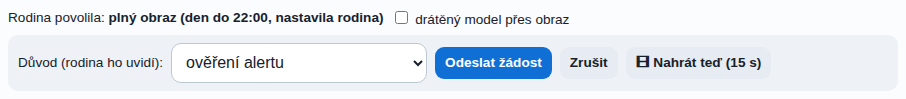
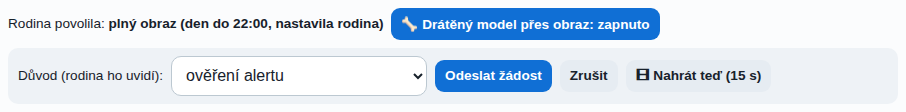
Verze 2.9: drátěný model v dispečinku výrazně a výchozí, jen skutečná postava přes živý obraz, jednotná terminologie
- dispečink: tlačítko „🦴 Drátěný model přes obraz: zapnuto/vypnuto“ místo zatržítka,
  po spuštění zapnuto, volba v localStorage; mimo plný a rozostřený obraz nejde použít
- zdroj.js: ukázková postava náhradní scény se už nepřenese na živý obraz z kamery;
  při načítání nebo nedostupnosti modelu se kostra nekreslí a plátno to napíše;
  náhradní scéna má popisek „postava je jen ukázková“
- jedna terminologie: plný obraz, rozostřený obraz, drátěný model, bez obrazu
  (rodina, hlavní aplikace, rozcestník, README); „Ostrý/Normální/Rozmazaný“ pryč
- CHANGELOG 2.9, verze.js, nápověda

Claude-Session: https://claude.ai/code/session_013Q43w1EYgsA74FWdGJXT9h

diff --git a/public/proto/napoveda.js b/public/proto/napoveda.js
@@ -28,7 +28,7 @@ export const TEMATA = [
   { id: 'otaceni', nazev: 'Otáčení kamery', klicova: ['otoc', 'otac', 'natoc', 'sipk', 'ptz', 'pan', 'tilt', 'vychozi poloha', 'pohnout kamerou'],
     text: 'Kamery Tapo s otočnou hlavou (C200, C210, C220) jdou otáčet přímo z aplikace: na obraze v detailu kamery (dispečink) i na obraze v aplikaci rodiny je vpravo dole kříž šipek. Každé stisknutí kameru krátce pootočí daným směrem, ⌂ ji vrátí do výchozí polohy. Otáčí se přes ONVIF stejným účtem kamery jako události, takže nic dalšího se nenastavuje. Když kamera otáčení neumí nebo neodpoví, aplikace to řekne. Rodina otáčí jen svou kameru.' },
   { id: 'novinky', nazev: 'Co je nové', klicova: ['novink', 'co je nove', 'zmeny', 'verze', 'aktualizace'],
-    text: 'Verze 2.8 (5. 10. 2026): když rodina povolila jen rozostření nebo drátěný model, nahrávka po události vznikne jako drátěný model (jen kostra postavy, bez obrazu) a přehraje se jako animace tlačítkem 🦴 v Nahrávkách; plný obraz se ukládá dál jen při plném obrazu nebo nouzovém přístupu. Verze 2.7 (5. 10. 2026): nahrávka po události obsahuje i obraz před ní (⚙ Nastavení → Obraz před událostí, výchozí 5 s; server drží posledních pár sekund obrazu každé kamery) a události kamer zpracovává server sám každé 2 sekundy, takže nahrávka, SMS a e-mail odcházejí hned i bez otevřeného dispečinku. Verze 2.6 (4. 10. 2026): hlídání místa na serveru – pojistka proti plnému disku (pod nastavené volné místo se mažou nejstarší nahrávky), limit místa na poskytovatele v Nastavení (výchozí 2 GB) a oranžové varování nahoře v dispečinku, když je místa málo nebo je poskytovatel u limitu. Verze 2.5 (4. 10. 2026): v detailu kamery (Monitoring → Historie) jde zvolit období od–do, zobrazit události z databáze (jedné kamery nebo všech) a stáhnout je do Excelu; detail kamery je rozdělený do ohraničených bloků s tlačítky v jedné liště; nahrávka po události, která se nepořídila, má vždy vidět důvod (🎞 nenahráno: …) v historii i v Nahrávkách. Verze 2.4 (4. 10. 2026): v Nastavení kamery jsou všechny události, které kamera Tapo hlásí: k překročení čáry, zakrytí, osobě a pohybu přibyly vstup do hlídané oblasti, pláč, hlasitý nebo neobvyklý zvuk, rozbití skla, vozidlo a zvíře (vozidlo a zvíře jsou výchozí vypnuté). Verze 2.3 (4. 10. 2026): Google Disk jde v Nastavení zapnout a vypnout (zapnuto = kopie každé nahrávky vedle serveru); v Nastavení je vidět, kolik nahrávky zabírají na serveru a kolik je volného místa; kameru Tapo jde otáčet šipkami na obraze v detailu kamery i v aplikaci rodiny (⌂ = výchozí poloha). Verze 2.2 (4. 10. 2026): druhá volba úložiště nahrávek – na serveru (doporučeno): šifrované soubory na našem serveru, přehrávání jen v aplikaci (dispečink i rodina u své kamery, tlačítko ▶ přehrát), každé přehrání v auditu, automatické mazání po nastavené době (výchozí 30 dnů), ruční smazání; nahrávka z hlavní aplikace zůstává v režimu, ve kterém byla pořízena; evidence každé nahrávky v CLB1. Volba Server / Google Disk a doba uchování jsou v Nastavení. Verze 2.1 (4. 10. 2026): nahrávky z kamer na Google Disk poskytovatele – stejný Google účet jako v Péče doma plus (Export dat), adresář se zakládá v Nastavení dispečinku; server po události se zatrženým Nahrávat uloží nastavený počet sekund obrazu (jen při plném obrazu, nebo kritická událost s nouzovým přístupem), v detailu kamery je tlačítko Nahrát teď a seznam Nahrávky, odkaz 🎞 je u události v historii; nahrávky z hlavní aplikace jdou na Disk také. Tunel pro více míst: kamera u jiného poskytovatele má vlastní bránu (Mango) a vlastní místo v tunelu (wireguard-vps.sh --misto 2). Verze 2.0 (3. 10. 2026): konec prototypu – každý poskytovatel (tenant Péče doma plus) má svá data v databázi PeceDomaPlus (tabulky A_KAM_*), nic společného a nic v Softru. Dispečink se otevírá odkazem s ID tenanta (?tenant=…), které si prohlížeč pamatuje; dispečer se přihlašuje účtem Péče doma plus, správce serveru heslem správce; v záhlaví je poskytovatel a kdo je přihlášen. Kamery patří tenantovi (vps-kamera.sh tenant …), dlaždice ukazují jen jeho kamery, demo a Vynulovat v ostrém provozu nejsou. Údaje poskytovatele začínají názvem z Péče doma plus. Verze 1.1 (3. 10. 2026): v aplikaci rodiny je vlastní obraz vždy ostrý a volba zobrazení (rozostření, černé pozadí, drátěný model) je schovaná za tlačítkem Test obrazu; zavřením testu se vrátí ostrý obraz. Tři tlačítka Ostrý / Rozmazaný / Drátěný model pro poskytovatele zůstávají v kartě Přístup poskytovatele. Dál: detail kamery v dispečinku je rozdělený do sekcí Monitoring, Komunikace a Nastavení. Ke každé kameře jdou zadat až tři čísla na SMS a tři e-maily (Komunikace → Kontakty pro upozornění) a u každé události zatrhnout Nahrávat, SMS a E-mail (Nastavení); server při události upozorní, historie ukazuje, kolik zpráv odešlo. E-mail jde stejným webhookem Make jako SMS, v Nastavení (ozubené kolečko) je zkušební SMS i zkušební e-mail a varování, když je na serveru zaměněná adresa webhooku. Oprava 3. 10. 2026 odpoledne: SMS rodině (pozvánky, žádosti o plný obraz) jdou přes Twilio stejným spojením jako SMS Jarvise; dřívější cesta hlásila odesláno, ale SMS nedocházely. V Nastavení (ozubené kolečko) je sekce SMS rodině s tlačítkem Poslat zkušební SMS na vlastní číslo. Verze 1.0 (3. 10. 2026), číslo verze je v hlavičce každé aplikace. Aplikace rodiny už nemá panel Simulace; zapne se odkazem /proto/rodina.html?simulace=1 (ukázka ?ukazka=1 ho má vždy). Při žádosti o plný obraz odchází rodině SMS. Dál: trvalá poznámka ke klientovi pod obrazem jde upravit; odkaz z pozvánky má přednost před přihlášením v prohlížeči; dispečink a provoz jen po přihlášení poskytovatele; nastavení pod ozubeným kolečkem vpravo nahoře (poskytovatel, dispečink, eskalace, zobrazení); poznámky dispečinku ke kameře s časem a jménem; nápověda s obrázky obrazovek a asistent v grafice Case manageru; údaje poskytovatele na jednom místě pro dispečink i rodinu; karta Směna počítá z dnešních alertů. 2. 10. 2026: stav sdílený přes server (rodina na telefonu, dispečink na počítači); přepínač Jen skutečné kamery / Demo; přihlášení přímo v dispečinku; v aplikaci rodiny karta Přístup poskytovatele s rychlým přepnutím Ostrý / Rozmazaný / Drátěný model, časy dne a noci, Klid na 2 hodiny / do rána / do večera / do vypnutí, žádost o plný obraz přes celou obrazovku se zvukem.' },
+    text: 'Verze 2.9 (5. 10. 2026): drátěný model přes obraz v dispečinku je výrazné tlačítko a je po spuštění zapnutý; přes skutečný obraz se kreslí jen skutečná postava z modelu v prohlížeči (ukázková postava patří jen k náhradní scéně); jednotné názvy režimů ve všech aplikacích (plný obraz, rozostřený obraz, drátěný model, bez obrazu). Verze 2.8 (5. 10. 2026): když rodina povolila jen rozostření nebo drátěný model, nahrávka po události vznikne jako drátěný model (jen kostra postavy, bez obrazu) a přehraje se jako animace tlačítkem 🦴 v Nahrávkách; plný obraz se ukládá dál jen při plném obrazu nebo nouzovém přístupu. Verze 2.7 (5. 10. 2026): nahrávka po události obsahuje i obraz před ní (⚙ Nastavení → Obraz před událostí, výchozí 5 s; server drží posledních pár sekund obrazu každé kamery) a události kamer zpracovává server sám každé 2 sekundy, takže nahrávka, SMS a e-mail odcházejí hned i bez otevřeného dispečinku. Verze 2.6 (4. 10. 2026): hlídání místa na serveru – pojistka proti plnému disku (pod nastavené volné místo se mažou nejstarší nahrávky), limit místa na poskytovatele v Nastavení (výchozí 2 GB) a oranžové varování nahoře v dispečinku, když je místa málo nebo je poskytovatel u limitu. Verze 2.5 (4. 10. 2026): v detailu kamery (Monitoring → Historie) jde zvolit období od–do, zobrazit události z databáze (jedné kamery nebo všech) a stáhnout je do Excelu; detail kamery je rozdělený do ohraničených bloků s tlačítky v jedné liště; nahrávka po události, která se nepořídila, má vždy vidět důvod (🎞 nenahráno: …) v historii i v Nahrávkách. Verze 2.4 (4. 10. 2026): v Nastavení kamery jsou všechny události, které kamera Tapo hlásí: k překročení čáry, zakrytí, osobě a pohybu přibyly vstup do hlídané oblasti, pláč, hlasitý nebo neobvyklý zvuk, rozbití skla, vozidlo a zvíře (vozidlo a zvíře jsou výchozí vypnuté). Verze 2.3 (4. 10. 2026): Google Disk jde v Nastavení zapnout a vypnout (zapnuto = kopie každé nahrávky vedle serveru); v Nastavení je vidět, kolik nahrávky zabírají na serveru a kolik je volného místa; kameru Tapo jde otáčet šipkami na obraze v detailu kamery i v aplikaci rodiny (⌂ = výchozí poloha). Verze 2.2 (4. 10. 2026): druhá volba úložiště nahrávek – na serveru (doporučeno): šifrované soubory na našem serveru, přehrávání jen v aplikaci (dispečink i rodina u své kamery, tlačítko ▶ přehrát), každé přehrání v auditu, automatické mazání po nastavené době (výchozí 30 dnů), ruční smazání; nahrávka z hlavní aplikace zůstává v režimu, ve kterém byla pořízena; evidence každé nahrávky v CLB1. Volba Server / Google Disk a doba uchování jsou v Nastavení. Verze 2.1 (4. 10. 2026): nahrávky z kamer na Google Disk poskytovatele – stejný Google účet jako v Péče doma plus (Export dat), adresář se zakládá v Nastavení dispečinku; server po události se zatrženým Nahrávat uloží nastavený počet sekund obrazu (jen při plném obrazu, nebo kritická událost s nouzovým přístupem), v detailu kamery je tlačítko Nahrát teď a seznam Nahrávky, odkaz 🎞 je u události v historii; nahrávky z hlavní aplikace jdou na Disk také. Tunel pro více míst: kamera u jiného poskytovatele má vlastní bránu (Mango) a vlastní místo v tunelu (wireguard-vps.sh --misto 2). Verze 2.0 (3. 10. 2026): konec prototypu – každý poskytovatel (tenant Péče doma plus) má svá data v databázi PeceDomaPlus (tabulky A_KAM_*), nic společného a nic v Softru. Dispečink se otevírá odkazem s ID tenanta (?tenant=…), které si prohlížeč pamatuje; dispečer se přihlašuje účtem Péče doma plus, správce serveru heslem správce; v záhlaví je poskytovatel a kdo je přihlášen. Kamery patří tenantovi (vps-kamera.sh tenant …), dlaždice ukazují jen jeho kamery, demo a Vynulovat v ostrém provozu nejsou. Údaje poskytovatele začínají názvem z Péče doma plus. Verze 1.1 (3. 10. 2026): v aplikaci rodiny je vlastní obraz vždy ostrý a volba zobrazení (rozostření, černé pozadí, drátěný model) je schovaná za tlačítkem Test obrazu; zavřením testu se vrátí ostrý obraz. Tři tlačítka Ostrý / Rozmazaný / Drátěný model pro poskytovatele zůstávají v kartě Přístup poskytovatele. Dál: detail kamery v dispečinku je rozdělený do sekcí Monitoring, Komunikace a Nastavení. Ke každé kameře jdou zadat až tři čísla na SMS a tři e-maily (Komunikace → Kontakty pro upozornění) a u každé události zatrhnout Nahrávat, SMS a E-mail (Nastavení); server při události upozorní, historie ukazuje, kolik zpráv odešlo. E-mail jde stejným webhookem Make jako SMS, v Nastavení (ozubené kolečko) je zkušební SMS i zkušební e-mail a varování, když je na serveru zaměněná adresa webhooku. Oprava 3. 10. 2026 odpoledne: SMS rodině (pozvánky, žádosti o plný obraz) jdou přes Twilio stejným spojením jako SMS Jarvise; dřívější cesta hlásila odesláno, ale SMS nedocházely. V Nastavení (ozubené kolečko) je sekce SMS rodině s tlačítkem Poslat zkušební SMS na vlastní číslo. Verze 1.0 (3. 10. 2026), číslo verze je v hlavičce každé aplikace. Aplikace rodiny už nemá panel Simulace; zapne se odkazem /proto/rodina.html?simulace=1 (ukázka ?ukazka=1 ho má vždy). Při žádosti o plný obraz odchází rodině SMS. Dál: trvalá poznámka ke klientovi pod obrazem jde upravit; odkaz z pozvánky má přednost před přihlášením v prohlížeči; dispečink a provoz jen po přihlášení poskytovatele; nastavení pod ozubeným kolečkem vpravo nahoře (poskytovatel, dispečink, eskalace, zobrazení); poznámky dispečinku ke kameře s časem a jménem; nápověda s obrázky obrazovek a asistent v grafice Case manageru; údaje poskytovatele na jednom místě pro dispečink i rodinu; karta Směna počítá z dnešních alertů. 2. 10. 2026: stav sdílený přes server (rodina na telefonu, dispečink na počítači); přepínač Jen skutečné kamery / Demo; přihlášení přímo v dispečinku; v aplikaci rodiny karta Přístup poskytovatele s rychlým přepnutím Ostrý / Rozmazaný / Drátěný model, časy dne a noci, Klid na 2 hodiny / do rána / do večera / do vypnutí, žádost o plný obraz přes celou obrazovku se zvukem.' },
   { id: 'zdroj', nazev: 'Kamery poskytovatele', klicova: ['demo', 'skutecn', 'fiktiv', 'ukazk', 'prepinac', 'kolik kamer', 'jedna dlazdice', 'chybi pacient', 'nova kamera', 'prirazeni kamery'],
     text: 'Dlaždice ukazují kamery přiřazené vašemu poskytovateli (tenantovi). Kameru přiřazuje správce serveru při jejím zavedení (./deploy/vps-kamera.sh, ID tenanta) nebo dodatečně příkazem ./deploy/vps-kamera.sh tenant ID_KAMERY ID_TENANTA; nová kamera se v dispečinku objeví sama s výchozím nastavením. Fiktivní ukázkoví pacienti jsou jen v ukázce bez přihlášení (/proto/?ukazka), v dispečinku poskytovatele nejsou.' },
   { id: 'poskytovatel', obrazky: [{ src: '/proto/napoveda/zahlavi.png', popis: 'Záhlaví: údaje poskytovatele vlevo, vpravo nahoře Nápověda a ozubené kolečko' }, { src: '/proto/napoveda/nastaveni.png', popis: 'Nastavení pod ozubeným kolečkem: poskytovatel, dispečink, zobrazení' }], nazev: 'Nastavení (ozubené kolečko)', klicova: ['nastaven', 'poskytovatel', 'zahlavi', 'dispecer', 'smena', 'zaloha', 'vedouci', 'eskalac', 'jmeno', 'upravit', 'nazev sluzby', 'kolecko'],

diff --git a/public/proto/dispecink.js b/public/proto/dispecink.js
@@ -252,7 +252,9 @@ import('/proto/napoveda.js').then(({ TEMATA, odpovez, napovedaText }) => {
   log.addEventListener('click', (e) => { const t = e.target.closest('.msg.bot .tema'); if (!t || t.textContent === 'AI') return; const d = [...document.querySelectorAll('.naptema')].find((x) => x.querySelector('summary').textContent === t.textContent); if (d) { tab('temata'); d.open = true; d.scrollIntoView({ behavior: 'smooth' }); } });
 });
 let selected = null;
-let overlay = false;                 // skeleton over a full or blurred picture in the detail
+const OVL_KEY = 'famicura.dispecink.skel';
+let overlay = (() => { try { return localStorage.getItem(OVL_KEY) !== '0'; } catch { return true; } })();   // drátěný model přes plný/rozostřený obraz v detailu: výchozí zapnuto, volba se pamatuje v prohlížeči
+function ulozOverlay(v) { overlay = v; try { localStorage.setItem(OVL_KEY, v ? '1' : '0'); } catch { /* bez paměti prohlížeče */ } }
 let askOpen = false, emergOpen = false;   // inline forms in the detail
 let dtab = 'monitoring';            // sekce detailu: monitoring | komunikace | nastaveni (zůstává při přepnutí kamery)
 const seen = new Set(sim.state.events.map((e) => e.id));
@@ -338,6 +340,13 @@ function tileMode(pid) {
   const m = sim.effectiveMode(pid);
   if (m === 'offline') return 'none';
   return m;
+}
+/** Tlačítko drátěného modelu v detailu: stav zapnuto/vypnuto, mimo plný a rozostřený obraz nejde použít. */
+function kresliOvl(d, mode = null) {
+  const b = d.querySelector('#ovl'); if (!b) return;
+  if (mode !== null) b.disabled = !(mode === 'full' || mode === 'blur');
+  b.setAttribute('aria-pressed', overlay ? 'true' : 'false'); b.className = overlay ? 'sm' : 'sm sec';
+  b.textContent = `🦴 Drátěný model přes obraz: ${overlay ? 'zapnuto' : 'vypnuto'}`;
 }
 function detailMode(pid) {
   const m = tileMode(pid);
@@ -457,7 +466,7 @@ function renderDetail(rebuild = false) {
       <section class="dsec" data-sec="monitoring">
         <div class="blok"><h3>Obraz z kamery</h3>
         <div class="stage"><canvas id="dcv"></canvas><span class="tag" id="dtag"></span>${p.real && sim.naServeru ? `<div class="ptz" id="dptz" title="otočení kamery (Tapo pan/tilt)"><button type="button" data-ptz="up" aria-label="nahoru">▲</button><button type="button" data-ptz="left" aria-label="doleva">◀</button><button type="button" data-ptz="home" aria-label="výchozí poloha">⌂</button><button type="button" data-ptz="right" aria-label="doprava">▶</button><button type="button" data-ptz="down" aria-label="dolů">▼</button></div>` : ''}</div>
-        <div class="modebar"><span class="small" id="dmode"></span><label class="small"><input type="checkbox" id="ovl"> drátěný model přes obraz</label></div>
+        <div class="modebar"><span class="small" id="dmode"></span><button type="button" class="sm" id="ovl" aria-pressed="true" title="kostra postavy spočítaná v prohlížeči přes plný nebo rozostřený obraz (model MediaPipe); nezapisuje se, jen zobrazení">🦴 Drátěný model přes obraz: zapnuto</button></div>
         <div class="akce" id="dbtn"></div>
         </div><div class="blok"><h3>Přidat poznámku</h3><p class="small muted">– datum, čas a jméno se doplní samy; jde do logu kamery, rodina ji nevidí</p>
         <div class="notes"><textarea id="dnote" maxlength="1000" placeholder="Např. Volala dcera, klient v pořádku, kontrola zítra ráno."></textarea><div class="akce"><button class="sm" id="dnoteAdd">Přidat poznámku</button><span class="small muted" id="dnoteKdo"></span></div></div>
@@ -534,7 +543,7 @@ function renderDetail(rebuild = false) {
         naplnWatch();
       } catch (ex) { err.textContent = ex.message; err.classList.remove('hide'); }
     };
-    const ovl = d.querySelector('#ovl'); ovl.checked = overlay; ovl.onchange = () => { overlay = ovl.checked; };
+    const ovl = d.querySelector('#ovl'); ovl.onclick = () => { ulozOverlay(!overlay); kresliOvl(d); };
     const tf = d.querySelector('#dtrvalaForm');
     d.querySelector('#dtrvalaEdit').onclick = () => { d.querySelector('#dtrvalaText').value = sim.patient(p.id)?.note || ''; tf.classList.remove('hide'); d.querySelector('#dtrvalaText').focus(); };
     d.querySelector('#dtrvalaCancel').onclick = () => tf.classList.add('hide');
@@ -550,7 +559,7 @@ function renderDetail(rebuild = false) {
   const mode = tileMode(p.id);
   d.querySelector('#dtag').textContent = { none: 'bez obrazu', skeleton: 'drátěný model', blur: 'rozostření', full: 'plný obraz' }[mode];
   d.querySelector('#dmode').innerHTML = `Rodina povolila: <strong>${esc(sim.modeReason(p.id))}</strong>`;
-  d.querySelector('#ovl').disabled = !(mode === 'full' || mode === 'blur');
+  kresliOvl(d, mode);
   const g = s.grants[p.id], pending = s.requests.find((r) => r.patientId === p.id && r.state === 'čeká');
   const crit = openAlerts(p.id).some((e) => KINDS[e.kind].level === 'crit');
   const btns = [];

diff --git a/public/proto/rodina.js b/public/proto/rodina.js
@@ -7,14 +7,14 @@ let FAMILY = ['tapoc2020', 'p2'];       // v ukázce a pro poskytovatele; rodina
 let patientId = FAMILY[0];
 let src = null, panel = null, demo = false;
 const params = new URLSearchParams(location.search);
-// Zobrazení = podklad (normální, rozostření, černé pozadí) + drátěný model přes
-// něj. Model jde zapnout k normálnímu i rozostřenému obrazu; na černém pozadí je vždy.
+// Zobrazení = podklad (plný obraz, rozostřený obraz, černé pozadí) + drátěný model přes
+// něj. Model jde zapnout k plnému i rozostřenému obrazu; na černém pozadí je vždy.
 const REZIM = { full: ['full', false], normal: ['full', false], blur: ['blur', false], blurskel: ['blur', true],
   fullskel: ['full', true], model: ['full', true], skeleton: ['skeleton', true], black: ['skeleton', true] };
 const SKEL_KEY = 'famicura.proto.skel';
 const zRezimu = REZIM[params.get('rezim')];
 let baseMode = zRezimu ? zRezimu[0] : 'full';
-// Drátěný model je výchozí (rodina si ho může vypnout); k ostrému i rozmazanému obrazu jde kdykoli přidat.
+// Drátěný model je výchozí (rodina si ho může vypnout); k plnému i rozostřenému obrazu jde kdykoli přidat.
 let skel = zRezimu ? zRezimu[1] : localStorage.getItem(SKEL_KEY) !== '0';
 const viewMode = () => baseMode === 'skeleton' ? 'skeleton' : skel ? `${baseMode}skel` : baseMode;
 let filter = 'all';
@@ -177,9 +177,9 @@ function renderModes() {
   const sw = $('skelSw');
   sw.disabled = baseMode === 'skeleton';
   sw.checked = baseMode === 'skeleton' || skel;
-  $('skelHint').textContent = baseMode === 'skeleton' ? 'na černém pozadí je drátěný model vždy' : 'kostra postavy přes normální i rozostřený obraz';
+  $('skelHint').textContent = baseMode === 'skeleton' ? 'na černém pozadí je drátěný model vždy' : 'kostra postavy přes plný i rozostřený obraz';
 }
-/* Test obrazu: rodina vidí vždy ostrý obraz; velkým tlačítkem si může vyzkoušet,
+/* Test obrazu: rodina vidí vždy plný obraz; velkým tlačítkem si může vyzkoušet,
  * jak vypadá rozostření, černé pozadí a drátěný model. Jen na tomhle telefonu,
  * poskytovateli se nic nemění (to je karta Přístup poskytovatele). */
 const testObrazu = (on) => { $('testObrazu').classList.toggle('hide', !on); $('testStart').classList.toggle('hide', on); };
@@ -285,7 +285,7 @@ function render() {
   $('heroIc').textContent = { ok: '✓', warn: '!', crit: '!', off: '⌁' }[heroKind];
   $('heroT').textContent = { ok: 'Vše v pořádku', warn: 'Varování, podívejte se', crit: 'Kritická událost', off: 'Kamera je nedostupná' }[heroKind];
   $('heroS').textContent = lastEv ? `Poslední událost: ${eventText(lastEv)} · ${fmtT(lastEv.at)}` : 'Zatím žádná událost';
-  $('modeTag').textContent = { full: 'normální obraz', blur: 'rozostření', fullskel: 'drátěný model přes obraz', blurskel: 'rozostření s drátěným modelem', skeleton: 'jen drátěný model' }[viewMode()];
+  $('modeTag').textContent = { full: 'plný obraz', blur: 'rozostřený obraz', fullskel: 'drátěný model přes obraz', blurskel: 'rozostření s drátěným modelem', skeleton: 'jen drátěný model' }[viewMode()];
   const efZdroj = { povoleni: 'povolení na žádost poskytovatele', rychle: 'vaše rychlé přepnutí', offline: 'kamera je nedostupná', den: `denní nastavení (den ${denOd}–${nocOd})`, noc: `noční nastavení (noc ${nocOd}–${denOd})` }[ef.zdroj] || '';
   setHtml($('effective'), `Teď poskytovatel vidí: <strong>${esc(ef.mode === 'offline' ? 'nic, kamera nedostupná' : CONSENT[ef.mode] || ef.mode)}</strong><small>${esc(efZdroj)}${ef.do ? ` · do ${fmtT(ef.do)}` : ''}</small>`);
   const kontakty = describeKontakty(p);

diff --git a/public/proto/zdroj.js b/public/proto/zdroj.js
@@ -76,7 +76,7 @@ export function createSource({ deviceId = 'tapoc2020' } = {}) {
   video.style.cssText = 'position:fixed;width:2px;height:2px;opacity:0;pointer-events:none;left:-10px;top:-10px';
   document.body.appendChild(video);
 
-  const st = { status: 'idle', error: null, landmarks: null, poseState: 'none', synthetic: true, syntheticPose: null, frames: 0, path: null, auth: null };
+  const st = { status: 'idle', error: null, landmarks: null, landmarksSynthetic: false, poseState: 'none', synthetic: true, syntheticPose: null, frames: 0, path: null, auth: null };
   const tiles = new Set();          // { canvas, ctx, small, sctx, getMode }
   const listeners = new Set();
   let pc = null, landmarker = null, connections = SYN_CONNECTIONS, poseTried = false, lastDetect = 0, raf = null;
@@ -183,14 +183,17 @@ export function createSource({ deviceId = 'tapoc2020' } = {}) {
     if (needsPose()) {
       if (live) {
         ensurePose();
+        // Přes skutečný obraz jen skutečná postava z MediaPipe: ukázková postava z náhradní scény se sem nikdy nepřenese
+        // (dokud se model načítá nebo není k dispozici, kostra se nekreslí a plátno to napíše).
+        if (st.landmarksSynthetic) { st.landmarks = null; st.landmarksSynthetic = false; }
         if (landmarker && now - lastDetect > 80) {
           lastDetect = now;
           try { const r = landmarker.detectForVideo(video, now); st.landmarks = r.landmarks?.[0] || null; } catch { /* a frame lost */ }
         }
       } else {
-        st.landmarks = syntheticPose(now, st.syntheticPose); connections = SYN_CONNECTIONS;
+        st.landmarks = syntheticPose(now, st.syntheticPose); st.landmarksSynthetic = true; connections = SYN_CONNECTIONS;
       }
-    }
+    } else if (st.landmarks) st.landmarks = null;
     for (const t of tiles) {
       const mode = t.getMode();
       const cv = t.canvas;
@@ -213,12 +216,12 @@ export function createSource({ deviceId = 'tapoc2020' } = {}) {
         if (st.landmarks) drawSkeleton(ctx, cv, st.landmarks, connections);
         else {
           ctx.fillStyle = 'rgba(255,255,255,.7)'; ctx.font = `${Math.round(w / 34)}px sans-serif`; ctx.textAlign = 'center';
-          ctx.fillText(st.poseState === 'unavailable' ? 'drátěný model není k dispozici (WebGL)' : st.poseState === 'loading' ? 'načítám model postavy…' : 'postava nerozpoznána', w / 2, h - w / 30);
+          ctx.fillText(st.poseState === 'unavailable' ? 'drátěný model není k dispozici (model postavy se nenačetl)' : st.poseState === 'loading' ? 'načítám model postavy…' : 'postava nerozpoznána', w / 2, h - w / 30);
         }
       }
       if (!live && base !== 'black') {
         ctx.fillStyle = 'rgba(255,255,255,.55)'; ctx.font = `${Math.round(w / 44)}px sans-serif`; ctx.textAlign = 'left';
-        ctx.fillText('náhradní scéna – kamera nedostupná', 10, h - 10);
+        ctx.fillText('náhradní scéna – kamera nedostupná' + (mode === 'blurskel' || mode === 'fullskel' || mode === 'skeleton' ? ' (postava je jen ukázková)' : ''), 10, h - 10);
       }
     }
   }

diff --git a/public/proto/rodina.html b/public/proto/rodina.html
@@ -95,15 +95,15 @@
     <div id="watching"></div>
     <div class="chips" style="margin-top:8px" id="testStart"><button class="chip pri wide" id="testBtn">🧪 Test obrazu<small>jak vypadá rozostření a drátěný model</small></button></div>
     <div class="hide" id="testObrazu">
-      <p class="hint">Jen na tomhle telefonu, poskytovateli se tím nic nemění. Vyzkoušejte, jak které zobrazení vypadá; drátěný model jde přidat k ostrému i rozmazanému obrazu a je zapnutý jako výchozí. Zavřením se vrátí ostrý obraz s modelem.</p>
+      <p class="hint">Jen na tomhle telefonu, poskytovateli se tím nic nemění. Vyzkoušejte, jak které zobrazení vypadá; drátěný model jde přidat k plnému i rozostřenému obrazu a je zapnutý jako výchozí. Zavřením se vrátí ostrý obraz s modelem.</p>
       <div class="modesel three" id="modes">
-        <button data-mode="full" aria-pressed="true"><span class="ic">🎥</span>Normální</button>
-        <button data-mode="blur" aria-pressed="false"><span class="ic">🌫</span>Rozostření</button>
+        <button data-mode="full" aria-pressed="true"><span class="ic">🎥</span>Plný obraz</button>
+        <button data-mode="blur" aria-pressed="false"><span class="ic">🌫</span>Rozostřený obraz</button>
         <button data-mode="skeleton" aria-pressed="false"><span class="ic">⬛</span>Černé pozadí</button>
       </div>
       <label class="crow sw skelrow" id="skelRow"><span class="cl"><span class="ic">🩻</span>Drátěný model<small id="skelHint">kostra postavy přes normální i rozostřený obraz</small></span>
         <span class="switch"><input type="checkbox" id="skelSw"><i></i></span></label>
-      <div class="chips" style="margin-top:6px"><button class="chip" id="testZavrit">Zavřít test, zpět na ostrý obraz s modelem</button></div>
+      <div class="chips" style="margin-top:6px"><button class="chip" id="testZavrit">Zavřít test, zpět na plný obraz s modelem</button></div>
     </div>
     <p class="hint" id="srcNote"></p>
     <div class="actions">
@@ -121,8 +121,8 @@
     <h3 class="sub">Rychlé přepnutí obrazu</h3>
     <p class="hint" id="rychleHint">Platí do další změny nebo do střídání den/noc.</p>
     <div class="modesel three" id="rychle">
-      <button data-r="full" aria-pressed="false"><span class="ic">🎥</span>Ostrý</button>
-      <button data-r="blur" aria-pressed="false"><span class="ic">🌫</span>Rozmazaný</button>
+      <button data-r="full" aria-pressed="false"><span class="ic">🎥</span>Plný obraz</button>
+      <button data-r="blur" aria-pressed="false"><span class="ic">🌫</span>Rozostřený obraz</button>
       <button data-r="skeleton" aria-pressed="false"><span class="ic">🩻</span>Drátěný model</button>
     </div>
     <div class="chips" style="margin-top:6px"><button class="chip hide" id="rychleZrusit">Zrušit rychlé přepnutí</button></div>

diff --git a/public/proto/index.html b/public/proto/index.html
@@ -37,8 +37,8 @@
       <p class="hint">Na telefonu jde uložit na plochu jako aplikace (karta „Aplikace na telefonu“ dole na stránce).</p>
       <p class="sub">Nebo rovnou ve zvoleném zobrazení (nové okno):</p>
       <div class="modes">
-        <a href="/proto/rodina.html?rezim=full" target="_blank"><b>Normální</b><span>ostrý obraz z kamery</span></a>
-        <a href="/proto/rodina.html?rezim=blur" target="_blank"><b>Rozostření</b><span>hrubá mozaika, bez detailů</span></a>
+        <a href="/proto/rodina.html?rezim=full" target="_blank"><b>Plný obraz</b><span>plný obraz z kamery</span></a>
+        <a href="/proto/rodina.html?rezim=blur" target="_blank"><b>Rozostřený obraz</b><span>hrubá mozaika, bez detailů</span></a>
         <a href="/proto/rodina.html?rezim=fullskel" target="_blank"><b>Drátěný model</b><span>kostra postavy přes obraz; v aplikaci jde zapnout i k rozostření</span></a>
         <a href="/proto/rodina.html?rezim=skeleton" target="_blank"><b>Černé pozadí</b><span>jen kostra, žádný obraz</span></a>
       </div>

diff --git a/public/index.html b/public/index.html
@@ -311,8 +311,8 @@
           </label>
         </div>
         <div class="seg modes">
-          <button data-mode="normal" aria-pressed="true">Normální</button>
-          <button data-mode="blur" aria-pressed="false">Rozmazaný</button>
+          <button data-mode="normal" aria-pressed="true">Plný obraz</button>
+          <button data-mode="blur" aria-pressed="false">Rozostřený obraz</button>
           <button data-mode="black" aria-pressed="false">Černé pozadí</button>
         </div>
 
@@ -610,7 +610,7 @@ $('loadDevices').onclick = async () => {
 /*
  * Each open camera is a CameraView with its own connection, recording and
  * analysis. Four is where a phone starts to struggle: every one is a separate
- * video decode and, with a mode other than Normální, a canvas redrawn per frame.
+ * video decode and, with a mode other than Plný obraz, a canvas redrawn per frame.
  */
 const MAX_VIEWS = 4;
 const views = new Map();      // device id -> CameraView

diff --git a/public/verze.js b/public/verze.js
@@ -1,6 +1,6 @@
 /* Verze všech aplikací Famicura Kamera (hlavní aplikace, rodina, dispečink,
  * provoz): jedno místo, v hlavičce každé stránky jako „v1.0“. */
-window.FAMICURA_VERZE = '2.8';
+window.FAMICURA_VERZE = '2.9';
 document.addEventListener('DOMContentLoaded', () => {
   document.querySelectorAll('[data-verze]').forEach((el) => { el.textContent = 'v' + window.FAMICURA_VERZE; });
 });

diff --git a/public/analyzer.js b/public/analyzer.js
@@ -265,8 +265,8 @@ export class LiveAnalyzer {
 /* ---------- rendering (browser only; never called from tests) ---------- */
 
 export const DISPLAY_MODES = {
-  normal: "Normální",
-  blur: "Rozmazaný",
+  normal: "Plný obraz",
+  blur: "Rozostřený obraz",
   black: "Černé pozadí"
 };
 

diff --git a/README.md b/README.md
@@ -345,10 +345,10 @@ ukazuje se v hlavičce hlavní aplikace, rodiny, dispečinku i provozu.
 Na `/proto/` jsou tři
 simulovaná prostředí podle zadání pro vývojáře: **rodina** (telefon:
 obraz normální, rozostřený nebo na černém pozadí, drátěný model jde
-zapnout k normálnímu i rozostřenému obrazu a na černém pozadí je vždy; tahle volba vlastního zobrazení je schovaná za
-tlačítkem Test obrazu a zavřením testu se vrátí ostrý obraz;
+zapnout k plnému i rozostřenému obrazu a na černém pozadí je vždy; tahle volba vlastního zobrazení je schovaná za
+tlačítkem Test obrazu a zavřením testu se vrátí plný obraz;
 notifikace, historie; karta **Přístup poskytovatele** říká, co
-poskytovatel vidí teď a proč, má rychlé přepnutí Ostrý / Rozmazaný /
+poskytovatel vidí teď a proč, má rychlé přepnutí Plný obraz / Rozostřený obraz /
 Drátěný model platné do další změny nebo do střídání den/noc, nastavení
 podle denní doby včetně časů, kdy den a noc začínají, a nouzový přístup;
 **Klid** na 2 hodiny, do rána, do večera, do vypnutí; žádost poskytovatele
@@ -547,7 +547,7 @@ v historii gitu u tohoto commitu.
 
 ## Verze
 
-Číslo verze je v `public/verze.js` (teď 2.8) a vidí ho každá aplikace
+Číslo verze je v `public/verze.js` (teď 2.9) a vidí ho každá aplikace
 v hlavičce. Nová verze = tři kroky v jednom commitu: změnit číslo v
 `public/verze.js`, dopsat odstavec do `CHANGELOG.md` a do tématu „Co je
 nové“ v `public/proto/napoveda.js`, a po nahrání označit commit:
